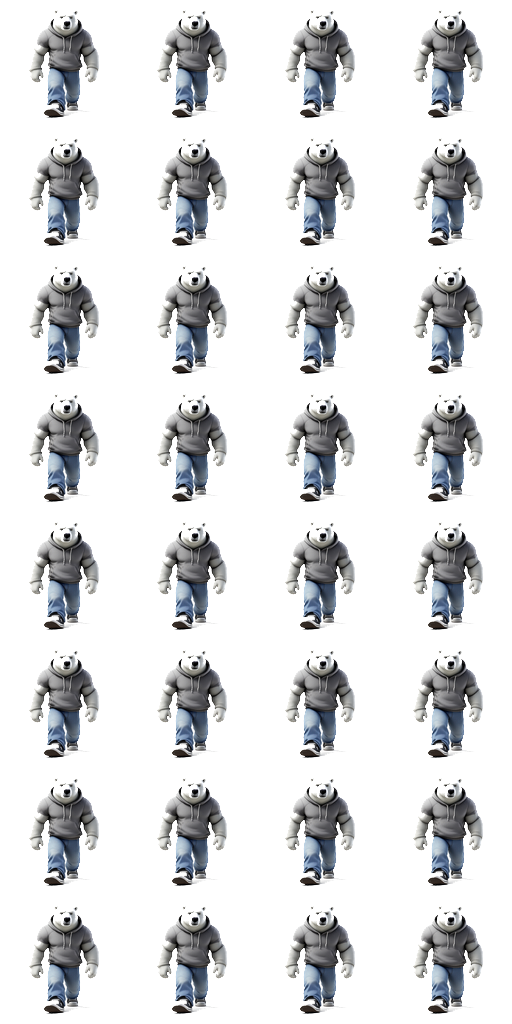
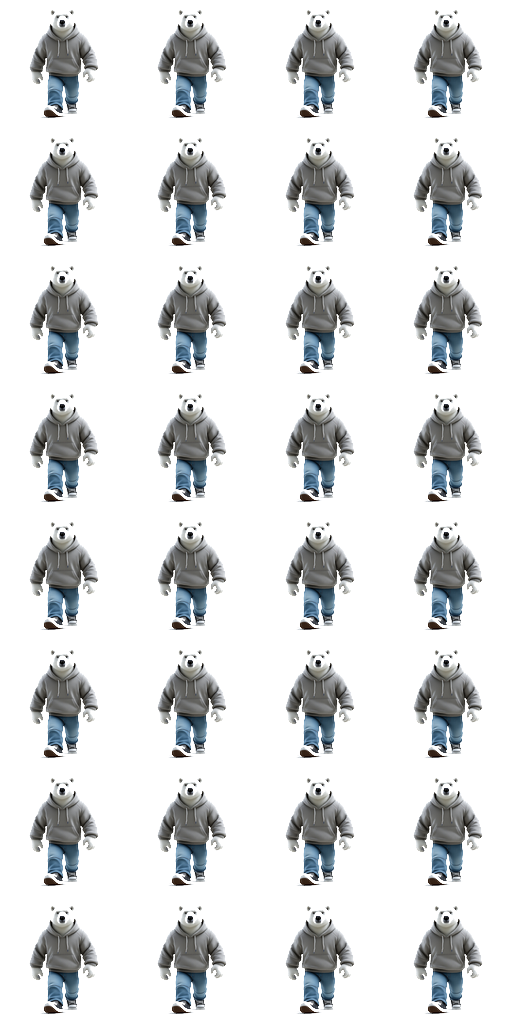
Update smooth-3D polar bear front reference and review pipeline
- Commit latest bear-reference-down.png with fixed transparency.
- Commit polar-bear-preview.png built from the front reference.
- Update comfy_generate.py prompts to smooth 3D style (was still saying voxel).
- Make bear-review.html gracefully hide missing direction refs/sheet.
- Ignore .claude/ project memory directory.

diff --git a/public/bear-review.html b/public/bear-review.html
@@ -156,20 +156,25 @@
       refUp: 'assets/generated/characters/bear-reference-up.png',
     };
 
-    function setImg(id, src) {
+    function setImg(id, metaId, src) {
       const el = document.getElementById(id);
-      if (el) el.src = src + cacheBust;
+      const meta = document.getElementById(metaId);
+      if (!el) return;
+      el.onerror = () => {
+        el.style.display = 'none';
+        if (meta) meta.textContent = 'not generated yet';
+      };
+      el.onload = () => {
+        el.style.display = '';
+      };
+      el.src = src + cacheBust;
+      if (meta) meta.textContent = src;
     }
 
-    setImg('ref-down', paths.refDown);
-    setImg('ref-left', paths.refLeft);
-    setImg('ref-right', paths.refRight);
-    setImg('ref-up', paths.refUp);
-
-    document.getElementById('ref-down-meta').textContent = paths.refDown;
-    document.getElementById('ref-left-meta').textContent = paths.refLeft;
-    document.getElementById('ref-right-meta').textContent = paths.refRight;
-    document.getElementById('ref-up-meta').textContent = paths.refUp;
+    setImg('ref-down', 'ref-down-meta', paths.refDown);
+    setImg('ref-left', 'ref-left-meta', paths.refLeft);
+    setImg('ref-right', 'ref-right-meta', paths.refRight);
+    setImg('ref-up', 'ref-up-meta', paths.refUp);
 
     // Spritesheet preview stage
     const canvas = document.getElementById('stage');
@@ -196,6 +201,13 @@
         frame = (frame + 1) % cols;
         draw();
       }, 250);
+    };
+    img.onerror = () => {
+      ctx.clearRect(0, 0, canvas.width, canvas.height);
+      ctx.fillStyle = '#9ca3af';
+      ctx.font = '1rem system-ui, sans-serif';
+      ctx.textAlign = 'center';
+      ctx.fillText('Spritesheet not assembled yet', canvas.width / 2, canvas.height / 2);
     };
 
     document.querySelectorAll('.controls button').forEach(btn => {

diff --git a/scripts/comfy_generate.py b/scripts/comfy_generate.py
@@ -23,7 +23,7 @@ from urllib.parse import urljoin
 
 import numpy as np
 import requests
-from PIL import Image
+from PIL import Image, ImageFilter
 
 ROOT = Path(__file__).resolve().parents[1]
 OUT = ROOT / "public/assets"
@@ -391,22 +391,101 @@ def bfl_download_image(result: dict[str, Any], dest: Path) -> None:
     print(f"  downloaded {dest}")
 
 
-def isolate_largest_sprite(img: Image.Image, target_size: int, raw_path: Path | None = None) -> Image.Image:
-    """Crop to the largest foreground region and make the background transparent.
+def _isolate_white_bg_sprite(img: Image.Image) -> Image.Image:
+    """Remove a near-pure white background using connected components + morphology.
 
-    Uses a flood fill from the image borders with an adaptive color tolerance.
-    This handles solid backgrounds, gradients, and slight vignetting better than
-    corner sampling alone.
+    Best for BFL/FLUX images that come back with a clean white studio background.
+    Keeps the largest foreground subject and fills internal holes.
     """
     rgba = img.convert("RGBA")
-    if raw_path is not None:
-        raw_path.parent.mkdir(parents=True, exist_ok=True)
-        rgba.save(raw_path)
+    arr = np.array(rgba).astype(np.float32)
+    height, width, _ = arr.shape
+    rgb = arr[:, :, :3]
 
+    # Conservative threshold: only very light greys / white count as background.
+    bg_mask = (rgb[:, :, 0] > 245) & (rgb[:, :, 1] > 245) & (rgb[:, :, 2] > 245)
+    subject_mask = ~bg_mask
+
+    # Dilate to bridge narrow gaps in white fur, then erode to tighten edges.
+    mask_img = Image.fromarray((subject_mask * 255).astype(np.uint8))
+    mask_img = mask_img.filter(ImageFilter.MaxFilter(7))
+    mask_img = mask_img.filter(ImageFilter.MinFilter(5))
+    mask = np.array(mask_img) > 128
+
+    # Keep only the largest connected component.
+    visited = np.zeros((height, width), bool)
+    largest: list[tuple[int, int]] = []
+    q: deque[tuple[int, int]] = deque()
+    for y in range(height):
+        for x in range(width):
+            if mask[y, x] and not visited[y, x]:
+                comp: list[tuple[int, int]] = []
+                visited[y, x] = True
+                q.append((y, x))
+                while q:
+                    cy, cx = q.popleft()
+                    comp.append((cy, cx))
+                    for dy in (-1, 0, 1):
+                        for dx in (-1, 0, 1):
+                            if dy == 0 and dx == 0:
+                                continue
+                            ny, nx = cy + dy, cx + dx
+                            if 0 <= ny < height and 0 <= nx < width:
+                                if mask[ny, nx] and not visited[ny, nx]:
+                                    visited[ny, nx] = True
+                                    q.append((ny, nx))
+                if len(comp) > len(largest):
+                    largest = comp
+
+    if not largest:
+        return rgba
+
+    keep = np.zeros((height, width), bool)
+    for y, x in largest:
+        keep[y, x] = True
+
+    # Fill holes by flood-filling background from the image border.
+    holes = np.zeros((height, width), bool)
+    for y in range(height):
+        for x in (0, width - 1):
+            if not keep[y, x] and not holes[y, x]:
+                holes[y, x] = True
+                q.append((y, x))
+    for x in range(width):
+        for y in (0, height - 1):
+            if not keep[y, x] and not holes[y, x]:
+                holes[y, x] = True
+                q.append((y, x))
+    while q:
+        y, x = q.popleft()
+        for dy in (-1, 0, 1):
+            for dx in (-1, 0, 1):
+                if dy == 0 and dx == 0:
+                    continue
+                ny, nx = y + dy, x + dx
+                if 0 <= ny < height and 0 <= nx < width:
+                    if not keep[ny, nx] and not holes[ny, nx]:
+                        holes[ny, nx] = True
+                        q.append((ny, nx))
+
+    keep = ~holes
+
+    # Small final smoothing to remove white fringe artifacts.
+    mask_img = Image.fromarray((keep * 255).astype(np.uint8))
+    mask_img = mask_img.filter(ImageFilter.MaxFilter(3))
+    mask_img = mask_img.filter(ImageFilter.MinFilter(3))
+    keep = np.array(mask_img) > 128
+
+    arr[~keep, 3] = 0
+    return Image.fromarray(arr.astype(np.uint8))
+
+
+def _isolate_unknown_bg_sprite(img: Image.Image) -> Image.Image:
+    """Remove a non-white/colored/gradient background via adaptive flood fill."""
+    rgba = img.convert("RGBA")
     arr = np.array(rgba).astype(np.float32)
     height, width, _ = arr.shape
 
-    # Gather border pixels and use their median color as the background seed.
     border: list[np.ndarray] = []
     for x in range(width):
         border.append(arr[0, x, :3])
@@ -416,12 +495,9 @@ def isolate_largest_sprite(img: Image.Image, target_size: int, raw_path: Path | 
         border.append(arr[y, width - 1, :3])
     border_arr = np.array(border)
     seed = np.median(border_arr, axis=0)
-
-    # Adaptive tolerance: cover normal variation plus a generous margin.
     mad = np.median(np.abs(border_arr - seed).sum(axis=1))
     tol = max(55, int(mad * 3.0))
 
-    # Flood fill the background from every edge pixel that matches the seed.
     bg = np.zeros((height, width), bool)
     q: deque[tuple[int, int]] = deque()
     for y in range(height):
@@ -446,15 +522,48 @@ def isolate_largest_sprite(img: Image.Image, target_size: int, raw_path: Path | 
                         q.append((ny, nx))
 
     arr[bg, 3] = 0
+    return Image.fromarray(arr.astype(np.uint8))
+
+
+def isolate_largest_sprite(img: Image.Image, target_size: int, raw_path: Path | None = None) -> Image.Image:
+    """Crop to the largest foreground region and make the background transparent.
+
+    Auto-detects a near-pure white background (typical of BFL/FLUX output) and uses
+    a fast morphological mask. Falls back to adaptive flood fill for colored/gradient
+    backgrounds (typical of ComfyUI output).
+    """
+    rgba = img.convert("RGBA")
+    if raw_path is not None:
+        raw_path.parent.mkdir(parents=True, exist_ok=True)
+        rgba.save(raw_path)
+
+    arr = np.array(rgba).astype(np.float32)
+    height, width, _ = arr.shape
+
+    # Decide strategy from the border pixels.
+    border: list[np.ndarray] = []
+    for x in range(width):
+        border.append(arr[0, x, :3])
+        border.append(arr[height - 1, x, :3])
+    for y in range(height):
+        border.append(arr[y, 0, :3])
+        border.append(arr[y, width - 1, :3])
+    border_arr = np.array(border)
+    mostly_white = np.all(border_arr > 250, axis=1).mean() > 0.95
+
+    if mostly_white:
+        isolated = _isolate_white_bg_sprite(rgba)
+    else:
+        isolated = _isolate_unknown_bg_sprite(rgba)
 
     # Crop to the non-transparent bounding box.
-    alpha = arr[:, :, 3]
+    alpha = np.array(isolated.split()[-1])
     coords = np.argwhere(alpha > 0)
     if len(coords) == 0:
         return Image.new("RGBA", (target_size, target_size), (255, 255, 255, 0))
     y1, x1 = coords.min(axis=0)
     y2, x2 = coords.max(axis=0) + 1
-    crop = Image.fromarray(arr.astype(np.uint8)).crop((x1, y1, x2, y2))
+    crop = isolated.crop((x1, y1, x2, y2))
 
     # Scale to fit inside target with padding.
     scale = target_size / max(crop.size) * 0.85
@@ -520,10 +629,10 @@ def make_bear_reference(server: str | None, seed: int, size: int = 512,
         "left": "side view facing left, walking to the left, profile view",
     }
     prompt = (
-        "anthropomorphic adult male polar bear character, Minecraft voxel style, blocky, "
-        "muscular humanoid build, broad muscular shoulders, thick arms, strong stocky body, "
+        "anthropomorphic adult male polar bear character, smooth 3D rendered style, soft realistic shading, "
+        "detailed fabric texture, muscular humanoid build, broad muscular shoulders, thick arms, strong stocky body, "
         "wearing a solid grey hoodie with drawstrings and plain blue denim jeans with no rips, "
-        "white fur, black and white high-top sneakers like Converse, no gloves, bare paws, no headband, "
+        "white fur, black and white high-top sneakers like Converse Chuck Taylors, bare hands with visible claws, no gloves, no headband, "
         f"{direction_prompts[direction]}, "
         "pure white background, isolated character, centered, "
         "no text, no watermark, no border"
@@ -590,10 +699,10 @@ def make_bear_direction(server: str, direction: str, reference: Path, seed: int,
         "down": "front view walking toward viewer, facing camera, upright humanoid posture",
     }
     prompt = (
-        "anthropomorphic adult male polar bear character, same Minecraft voxel design and outfit as reference, "
-        "muscular humanoid build, broad muscular shoulders, thick arms, strong stocky body, "
+        "anthropomorphic adult male polar bear character, same smooth 3D design and outfit as reference, "
+        "soft realistic shading, detailed fabric texture, muscular humanoid build, broad muscular shoulders, thick arms, strong stocky body, "
         "wearing a solid grey hoodie with drawstrings and plain blue denim jeans with no rips, "
-        "white fur, black and white high-top sneakers like Converse, no gloves, bare paws, no headband, "
+        "white fur, black and white high-top sneakers like Converse Chuck Taylors, bare hands with visible claws, no gloves, no headband, "
         f"{directions[direction]}, {pose}, "
         "pure white background, isolated character, centered, "
         "no text, no watermark, no border"
